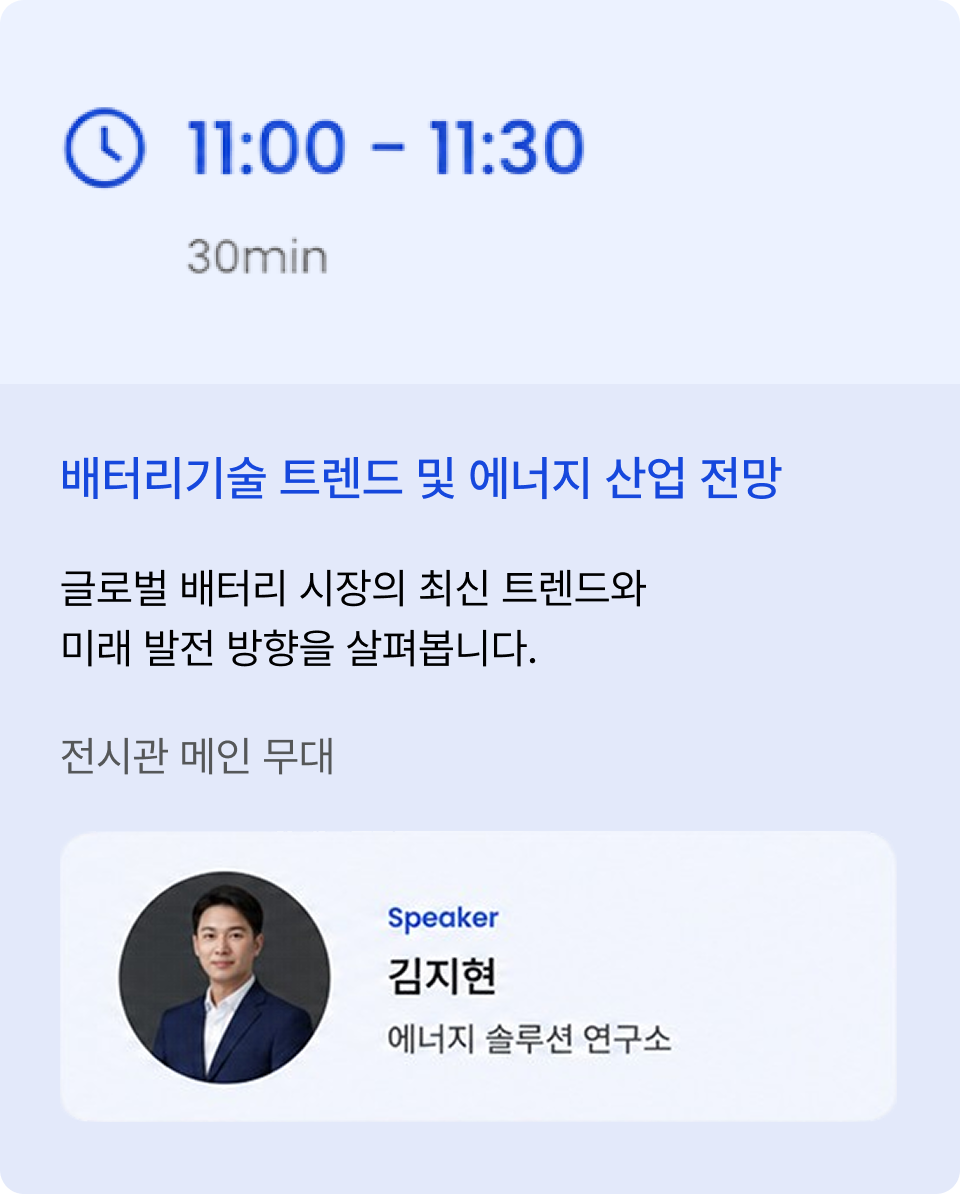
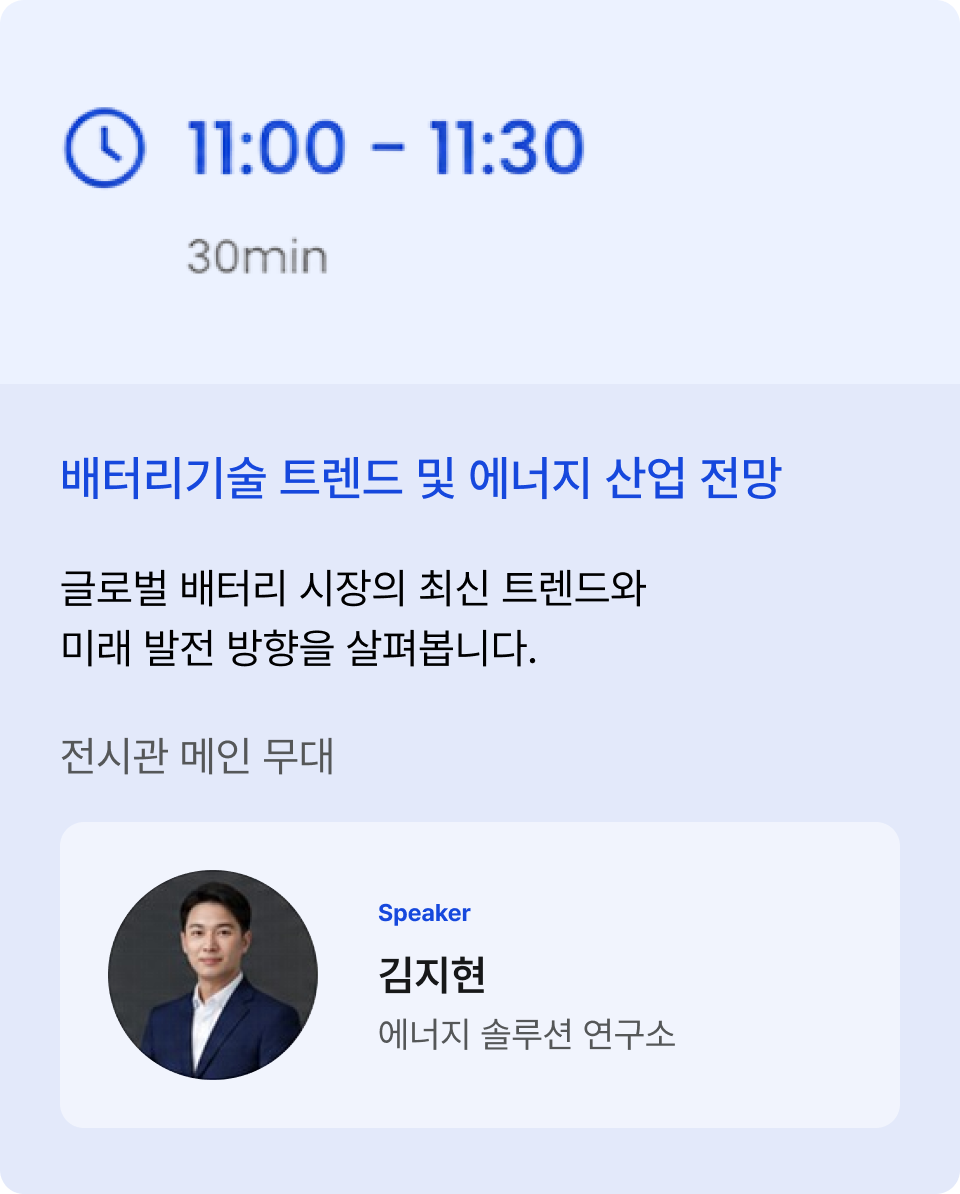
전시회 > 서브 상세페이지 이미지 수정

Changed region(s): [[0.0938, 0.7127, 0.3438, 0.9296], [0.375, 0.7437, 0.7188, 0.8987]]

diff --git a/public/src/pages_en/comp/comp_exhibition_detail_01.html b/public/src/pages_en/comp/comp_exhibition_detail_01.html
@@ -55,7 +55,7 @@
                             </ul>
                         </div>
                         <div class="select-cate activeSelect" role="option">
-                            <button type="button" aria-haspopup="listbox">Global Network</button>
+                            <button type="button" aria-haspopup="listbox">Exhibitions & Events</button>
                             <ul class="select-menu" role="listbox">
                                 <li><a href="javascript:;" role="option" tabindex="0">Company Overview</a></li>
                                 <li><a href="javascript:;" role="option" tabindex="0">Jeong-Do Management</a></li>
@@ -125,7 +125,7 @@
                                     <div class="content-title">Featured Programs</div>
                                     <div class="content-section">
                                         <div class="img-area">
-                                            <img src="../../../inc/images/img/exhibition_detail_cont02.png" alt="">
+                                            <img src="../../../inc/images/img/exhibition_detail_cont02_en.png" alt="">
                                         </div>
                                         <div class="text-area">
                                             <div class="tit">Schedule</div>

diff --git a/public/src/pages_en/comp/comp_exhibition_detail_01_mo.html b/public/src/pages_en/comp/comp_exhibition_detail_01_mo.html
@@ -111,7 +111,7 @@
                                     <div class="content-title">Featured Programs</div>
                                     <div class="content-section">
                                         <div class="img-area">
-                                            <img src="../../../inc/images/img/exhibition_detail_cont02_mo.png" alt="">
+                                            <img src="../../../inc/images/img/exhibition_detail_cont02_mo_en.png" alt="">
                                         </div>
                                         <div class="text-area">
                                             <div class="tit">Schedule</div>

diff --git a/public/src/pages_en/comp/comp_exhibition_list_01.html b/public/src/pages_en/comp/comp_exhibition_list_01.html
@@ -55,7 +55,7 @@
                             </ul>
                         </div>
                         <div class="select-cate activeSelect" role="option">
-                            <button type="button" aria-haspopup="listbox">Global Network</button>
+                            <button type="button" aria-haspopup="listbox">Exhibitions & Events</button>
                             <ul class="select-menu" role="listbox">
                                 <li><a href="javascript:;" role="option" tabindex="0">Company Overview</a></li>
                                 <li><a href="javascript:;" role="option" tabindex="0">Jeong-Do Management</a></li>
